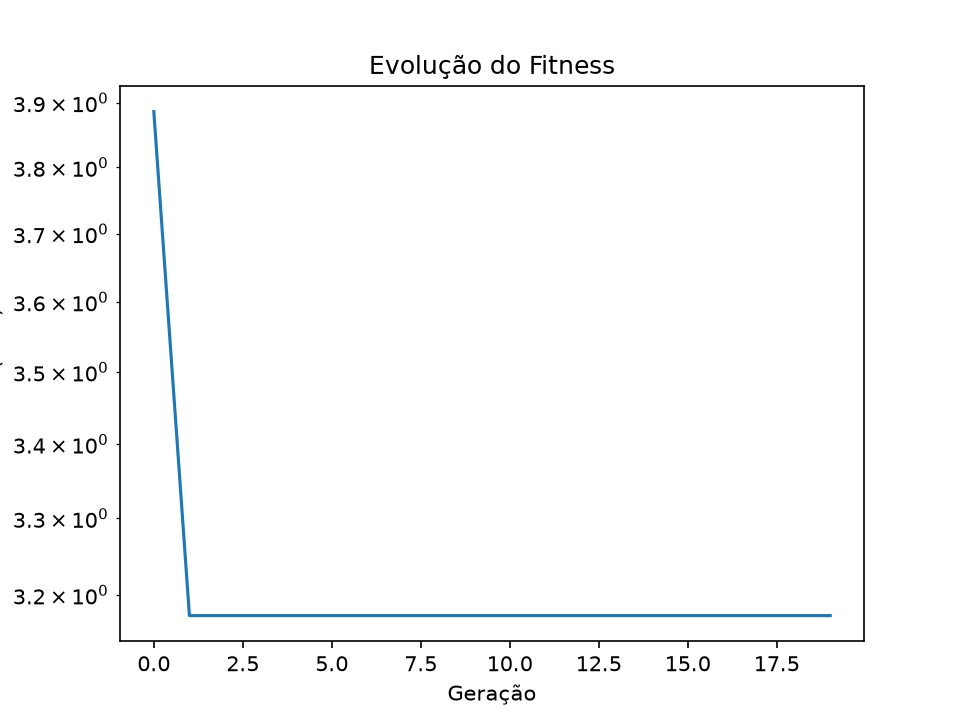
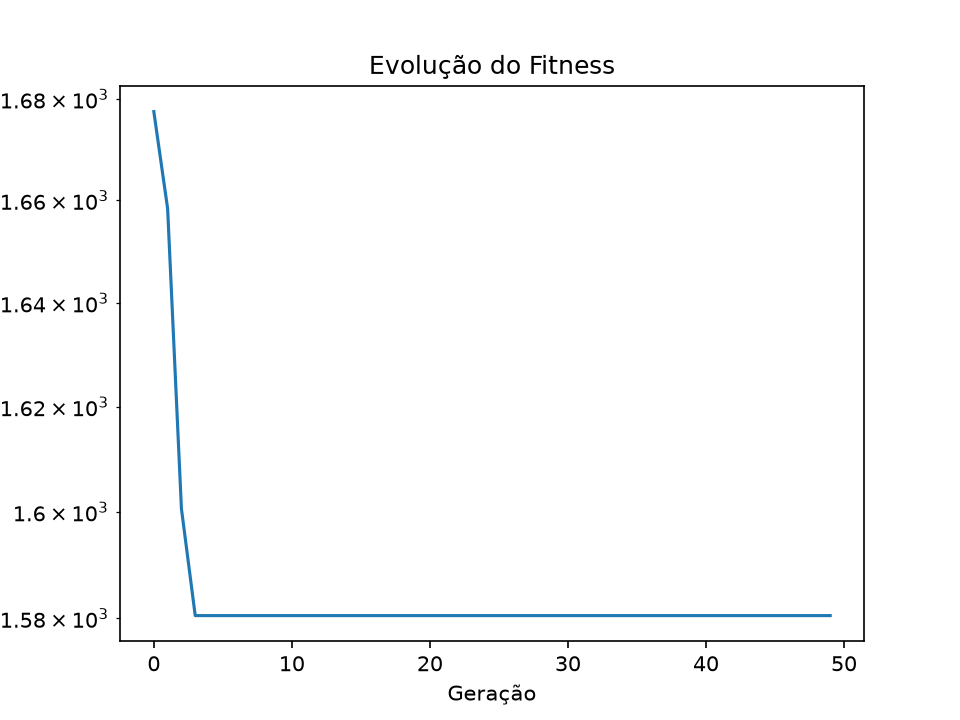
reuniao 3

diff --git a/main.py b/main.py
@@ -1,7 +1,7 @@
 # IMPORTAÇÕES #
 
 from deap import base, creator, tools, gp, algorithms
-from skimage.filters import threshold_multiotsu
+from skimage.filters import threshold_multiotsu, threshold_sauvola
 
 import matplotlib
 matplotlib.use("Agg")
@@ -12,6 +12,7 @@ import numpy as np
 import os
 
 cv.utils.logging.setLogLevel(cv.utils.logging.LOG_LEVEL_ERROR)
+np.random.seed(1)
 
 # TIPAGEM DE DADOS #
 
@@ -20,7 +21,11 @@ class Imagem:
 class ImagemBinaria:
     pass
 
-
+#Estrutura do INDIVIDUO (genoma)
+ # nó 1: [operador, nó (operação anterior)]
+ # nó n(lasts) : [out, nó de saída]
+ # OUTPUTS[0] = imagem inicial
+ # OUTPUTS[1::n] = saída de cada nó
 
 # FUNÇÕES GERAIS E DE PROCESSAMENTO DE IMAGEM #
 
@@ -48,36 +53,59 @@ def verificacao_tipos(individuo, grafo):
     return True
 
 def execucao_individuo(file, individuo, grafo):
-    valores = {}
-    valores[0] = cv.imread(f'{file}', cv.IMREAD_GRAYSCALE).astype(np.uint8)
-
+    OUTPUTS = {}
+    OUTPUTS[0] = cv.imread(f'{file}', cv.IMREAD_GRAYSCALE).astype(np.uint8)
+    
     for no in nx.topological_sort(grafo):
         if no == 0:
             continue
-        gene = individuo[no-1]
-        operador = gene[0]
-        funcao = operadores[operador]["funcao"]
-        conexao = gene[1]
-        entrada = valores[conexao]
-        valores[no] = funcao(entrada)
-        
-    return valores
+        if no in nos_ativos(individuo):
+            gene = individuo[no-1]
+            operador = gene[0]
+            funcao = operadores[operador]["funcao"]
+            conexao = gene[1]
+            entrada = OUTPUTS[conexao]
+            OUTPUTS[no] = funcao(entrada)        
+    return OUTPUTS
 
-def erro(esperado, resultado):
-    err = np.mean(np.abs(esperado.astype(np.float64) - resultado.astype(np.float64)))
+def nos_ativos(individuo):
+    nodes_enabled = set()
+
+    to_verify = []
+    to_verify.append(individuo[-1][1])
+
+    while to_verify:
+        node_id = to_verify.pop()
+
+        if node_id in nodes_enabled:
+            continue
+
+        nodes_enabled.add(node_id)
+
+        if node_id == 0:
+            continue
+
+        gene = individuo[node_id-1]
+        conexao = gene[1]
+
+        to_verify.append(conexao)
+
+    return nodes_enabled
+
+def erro(TARGET, resultado):
+    err = np.mean((TARGET.astype(np.float64) - resultado.astype(np.float64))**2) #MSE
     return err
 
-def fitness_individuo(valores, esperado, individuo):
+def fitness_individuo(OUTPUTS, TARGET, individuo):
     fitness = 0
 
     saida = individuo[-1][1]
-    fitness = erro(esperado, valores[saida])
+    fitness = erro(TARGET, OUTPUTS[saida])
     return fitness
 
 def conexoes_validas(grafo, operador, no):
     conexoes = []
     for i in grafo.nodes:
-        # somente pode conectar nos anteriores
         if i >= no:
             continue
         if grafo.nodes[i]["tipo"] == operadores[operador]["entrada"][0]:
@@ -85,7 +113,7 @@ def conexoes_validas(grafo, operador, no):
         
     return conexoes
 
-def gera_individuo(N_NOS=10):
+def gera_individuo(N_NOS=8, N_SAIDAS=1):
     individuo = []
     
     grafo = nx.DiGraph()
@@ -106,9 +134,10 @@ def gera_individuo(N_NOS=10):
 
         grafo.add_node(no, operador=operador, tipo=operadores[operador]["saida"])
         grafo.add_edge(conexao, no)
-        saida = np.random.randint(1, N_NOS + 1)
 
-    individuo.append(["out", saida])
+    for i in range(N_SAIDAS):
+        saida = np.random.randint(1, N_NOS + 1)
+        individuo.append(["out", saida])
     return individuo
 
 def avaliar(individuo, input, output):
@@ -119,15 +148,47 @@ def avaliar(individuo, input, output):
         return (float("inf"),)
     erros = []
 
-    for input, output in list(zip(input, output)):
-        img_input = cv.imread(f'{input}', cv.IMREAD_GRAYSCALE).astype(np.uint8)
-        img_output = cv.imread(f'{output}', cv.IMREAD_GRAYSCALE).astype(np.uint8)
-        valores = execucao_individuo(input, individuo, grafo)
-        erro_img = fitness_individuo(valores, img_output, individuo)
+    for image_input_path, image_output_path in zip(input, output):
+        img_output = cv.imread(f'{image_output_path}', cv.IMREAD_GRAYSCALE).astype(np.uint8)
+        OUTPUTS = execucao_individuo(image_input_path, individuo, grafo)
+        erro_img = fitness_individuo(OUTPUTS, img_output, individuo)
         erros.append(erro_img)
     fitness = np.mean(erros)
 
     return (fitness,)
+
+def mutacao(individuo):
+
+    while True:
+        mutation_rate = 0.5
+
+        filho = creator.Individuo(individuo)
+        indice = np.random.randint(0, len(filho)-1)
+        no = indice + 1
+
+        grafo = construcao_grafo(filho)
+
+        operadores_validos = []
+
+        for nome in operadores:
+            conexoes = conexoes_validas(grafo, nome, no)
+
+            if conexoes:
+                operadores_validos.append(nome)
+
+        if np.random.random() < mutation_rate:
+            operador = np.random.choice(operadores_validos)
+            conexoes = conexoes_validas(grafo, operador, no)
+            conexao = np.random.choice(conexoes)
+            filho[indice] = [operador, conexao]
+        else:
+            saida = np.random.randint(1, len(filho)-1)
+            filho[-1] = ["out", saida]
+        
+        grafo_novo = construcao_grafo(filho)
+
+        if verificacao_tipos(filho[:-1], grafo_novo):
+            return filho,
 
 def clahe(imagem):
     clahe = cv.createCLAHE(clipLimit=2.0, tileGridSize=(8,8))
@@ -221,18 +282,36 @@ def nick(imagem):
     img_b2 = np.where(smear_mask == 255, img_nick, imagem)
     return img_b2
 
-# PRIMITIVAS #
+def sauvola(imagem):
+    ws = 17
+    thresh_sauvola = threshold_sauvola(imagem, window_size=ws, k=0.2)
+    img_sauvola = (imagem > thresh_sauvola).astype("uint8") * 255
+    return img_sauvola
+
+def open_morphology(imagem):
+    kernel = cv.getStructuringElement(cv.MORPH_RECT, (3, 3))
+    return cv.morphologyEx(imagem, cv.MORPH_OPEN, kernel)
+
+def close_morphology(imagem):
+    kernel = cv.getStructuringElement(cv.MORPH_RECT, (3, 3))
+    return cv.morphologyEx(imagem, cv.MORPH_CLOSE, kernel)
+
+# PRIMITIVAS ou FUNÇÕES #
 
 operadores = {
-    "Clahe": {"funcao": clahe, "entrada": [Imagem], "saida": Imagem},
-    "Otsu": {"funcao": otsu, "entrada": [Imagem], "saida": ImagemBinaria},
-    "MultiOtsu": {"funcao": multiotsu, "entrada": [Imagem], "saida": ImagemBinaria},
-    "NickImagem": {"funcao": nick, "entrada": [Imagem], "saida": ImagemBinaria},
-    "NickBinaria": {"funcao": nick, "entrada": [ImagemBinaria], "saida": ImagemBinaria}
+    0: {"funcao": clahe, "entrada": [Imagem], "saida": Imagem},
+    1: {"funcao": otsu, "entrada": [Imagem], "saida": ImagemBinaria},
+    2: {"funcao": multiotsu, "entrada": [Imagem], "saida": ImagemBinaria},
+    3: {"funcao": nick, "entrada": [Imagem], "saida": ImagemBinaria},
+    4: {"funcao": nick, "entrada": [ImagemBinaria], "saida": ImagemBinaria},
+    5: {"funcao": sauvola, "entrada": [Imagem], "saida": ImagemBinaria},
+    6: {"funcao": sauvola, "entrada": [ImagemBinaria], "saida": ImagemBinaria},
+    7: {"funcao": open_morphology, "entrada": [ImagemBinaria], "saida": ImagemBinaria},
+    8: {"funcao": close_morphology, "entrada": [ImagemBinaria], "saida": ImagemBinaria}
 }
 
 
-# FITNESS FUNÇÃO DE AVALIAÇÃO #
+# FITNESS - FUNÇÃO DE AVALIAÇÃO #
 
 # Mminimizar o resultado de erro entre a imagem resultante e a imagem esperada
 creator.create("FitnessMin", base.Fitness, weights=(-1.0,))
@@ -241,24 +320,7 @@ toolbox = base.Toolbox()
 toolbox.register("individual", tools.initIterate, creator.Individuo, gera_individuo)
 toolbox.register("population", tools.initRepeat, list, toolbox.individual)
 
-# INDIVIDUOS #
-algum_no = 0
 
-individuo = [
-    ["Clahe", 0],
-    ["Otsu", 1],
-    ["MultiOtsu", 1],
-    ["NickImagem", 1],
-    ["NickBinaria", 2],
-    ["out", algum_no]
-]
-
-
-# GRAFO CARTESIANO #
-
-grafo = construcao_grafo(individuo)
-
-# comparar saída com objetivo
 
 input, output = [], []
 pasta = 'OriginalImages'
@@ -266,73 +328,13 @@ for image in os.listdir(pasta):
     nome = os.path.splitext(image)[0]
     input.append(f'{pasta}/{image}')
     output.append(f'GTimages/{nome}_estGT.tiff')
-    break
-
-for i, j in list(zip(input, output)):
-    esperado = cv.imread(f'{j}', cv.IMREAD_GRAYSCALE).astype(np.uint8)
-    if verificacao_tipos(individuo[:-1], grafo):
-        v = execucao_individuo(i, individuo, grafo)
-    fitness = fitness_individuo(v, esperado, individuo)
-    print(fitness)
-
-# AVALIAR - EVALUATE # 
-
-individuo = gera_individuo()
-grafo = construcao_grafo(individuo)
-
-
-
-
+    
 toolbox.register("evaluate", avaliar, input=input, output=output)
+    
 
-#população
-
-# criar população
 populacao = toolbox.population(n=2)
 
-
-# MUTACAO #
-# implementar mutação uniforme e depois efemera
-def mutacao(individuo):
-
-    while True:
-
-        filho = creator.Individuo(individuo)
-
-        # índice do gene: 0, 1, 2, 3, 4
-        indice = np.random.randint(0, len(filho)-1)
-
-        # número real do nó: 1, 2, 3, 4, 5
-        no = indice + 1
-
-        grafo = construcao_grafo(filho)
-
-        operadores_validos = []
-
-        for nome in operadores:
-
-            conexoes = conexoes_validas(
-                grafo,
-                nome,
-                no
-            )
-
-            if conexoes:
-                operadores_validos.append(nome)
-
-        saida = np.random.randint(1, len(filho[:-1])+1)
-
-        filho[-1] = ["out", saida]
-
-        grafo_novo = construcao_grafo(filho)
-
-        if verificacao_tipos(filho[:-1], grafo_novo):
-            return filho,
-
 toolbox.register("mutate", mutacao)
-
-
-# EVOLUCAO #
 
 fitness_history = []
 
@@ -341,11 +343,11 @@ for individuo in populacao:
 
 pai = tools.selBest(populacao, 1)[0]
 neutros_geracao = []
-for geracao in range(20):
+for geracao in range(50):
     
     filhos = []
 
-    for i in range(6):
+    for i in range(8):
 
         filho, = toolbox.mutate(pai)
 
@@ -353,15 +355,13 @@ for geracao in range(20):
 
         filhos.append(filho)
 
-    candidatos = [pai] + filhos
-    
+    melhor_filho = tools.selBest(filhos, 1)[0]    
     neutros = sum(1 for f in filhos if f.fitness.values[0] == pai.fitness.values[0])
     print(f"Geração {geracao}: {neutros} indivíduos neutros")
     neutros_geracao.append(neutros)
-    pai = tools.selBest(candidatos, 1)[0]
-    print("PAI:  ", pai)
-    print("FILHO:", filho)
-    print(f"Geração {geracao}: "
+    if melhor_filho.fitness.values[0] <= pai.fitness.values[0]:
+        pai = melhor_filho
+        print(f"Geração {geracao}: "
         f"fitness = {pai.fitness.values[0]}")
     fitness_history.append(pai.fitness.values[0])
 
@@ -369,12 +369,11 @@ for geracao in range(20):
 plt.plot(fitness_history)
 plt.yscale('log')
 plt.xlabel('Geração')
-plt.ylabel('Erro (MAE)')
+plt.ylabel('Erro (MSE)')
 plt.title('Evolução do Fitness')
 plt.savefig("fitness.png", dpi=150)
 
 # MELHOR INDIVÍDUO # 
-# mostrar melhor solução
 
 melhor = pai
 
